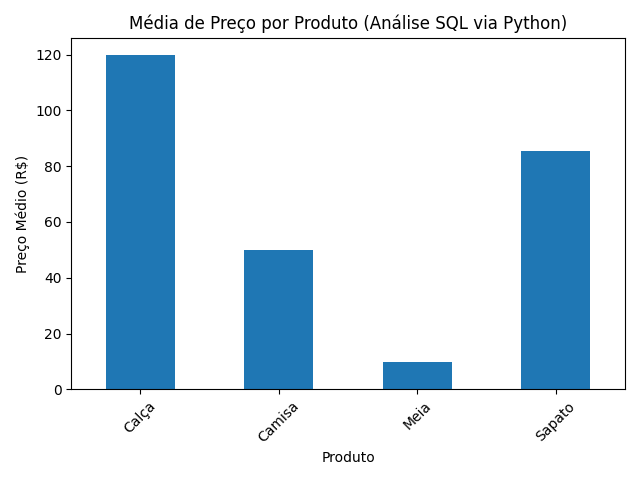
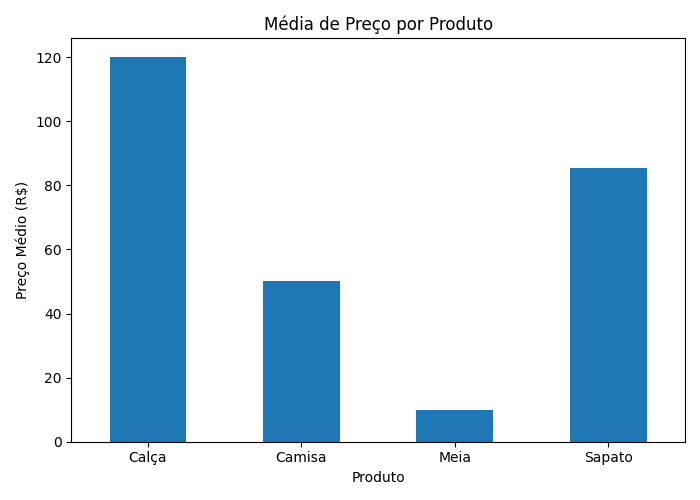
Refatorando analise_vendas.py: código limpo, agregação .agg() e dois gráficos Matplotlib salvos.

Changed region(s): [[0.0, 0.0312, 1.0, 0.9375], [0.8125, 0.3125, 0.9375, 0.3438], [0.5, 0.9375, 0.5938, 0.9688]]

diff --git a/analise_vendas.py b/analise_vendas.py
@@ -1,105 +1,69 @@
-# Este é um comentário. O Python o ignora.
+# Módulo de Análise de Dados: Python, Pandas e Matplotlib
 
-# 1. Importar a biblioteca Pandas (O padrão de mercado é chamar de 'pd')
+# 1. IMPORTAÇÕES
 import pandas as pd
 import matplotlib.pyplot as plt
 
-# 2. Criar uma série de dados simples (uma lista)
+# 2. DADOS DE ENTRADA
 dados = {
     'Produto': ['Camisa', 'Calça', 'Sapato', 'Meia'],
     'Preco': [50.00, 120.00, 85.50, 10.00]
 }
 
-# 3. Criar um DataFrame (a tabela de dados do Pandas)
+# 3. CRIAÇÃO DO DATAFRAME
 df_vendas = pd.DataFrame(dados)
 
-# 4. Imprimir apenas a coluna 'Preco'
-print("\nPreços dos Produtos:")
-print(df_vendas['Preco'])
+# ==========================================================
+# 4. ANÁLISE BÁSICA E FILTRAGEM
+# ==========================================================
 
-# 5. Imprimir mais de uma coluna (usando uma lista de colunas)
-print("\nProduto e Preço:")
-print(df_vendas[['Produto', 'Preco']])
+print("--- 1. ANÁLISE ESTATÍSTICA BÁSICA ---")
 
-# 6. Média de Preço (Primeira análise estatística!)
-print("\nMédia de Preços:")
-print(df_vendas['Preco'].mean())
-# 7. FILTROS CONDICIONAIS
-print("\nProdutos com Preço Superior a R$80.00:")
+# Seleção de Coluna Única e Média
+print(f"Média de Preços Total: R${df_vendas['Preco'].mean():.2f}")
 
-# Cria uma "Máscara" Booleana (True/False)
-# A variável 'preco_alto' será True para preços > 80.00 e False para o restante
+# Filtro Condicional (Preços > R$80.00)
 preco_alto = df_vendas['Preco'] > 80.00
-
-# Aplica a máscara ao DataFrame original para mostrar apenas as linhas True
 df_filtrado = df_vendas[preco_alto]
-
-# Imprime o novo DataFrame filtrado
+print("\nProdutos com Preço Superior a R$80.00:")
 print(df_filtrado)
-# 8. AGRUPAMENTO DE DADOS COM .groupby()
 
-# Objetivo: Calcular a média de Preço por Produto.
-print("\nPreço Médio por Produto (Agrupamento):")
 
-# 1. Agrupar o DataFrame pela coluna 'Produto'
-df_agrupado = df_vendas.groupby('Produto')
+# ==========================================================
+# 5. AGRUPAMENTO AVANÇADO (Relatório de BI)
+# ==========================================================
 
-# 2. Aplicar a função de média (.mean()) à coluna 'Preco' dentro de cada grupo
-media_por_produto = df_agrupado['Preco'].mean()
+print("\n--- 2. RELATÓRIO DE MÉTRICAS POR PRODUTO (.groupby().agg()) ---")
 
-# 3. Imprimir o resultado
-print(media_por_produto)
-# 9. VISUALIZAÇÃO DE DADOS (Matplotlib) - Salvando como arquivo
-
-print("\nGerando Gráfico de Barras dos Preços Médios...")
-
-# Cria um gráfico de barras a partir do DataFrame 'media_por_produto'
-media_por_produto.plot(kind='bar', title='Preço Médio por Produto')
-
-# Rotaciona os nomes dos produtos no eixo X para melhor visualização
-plt.xticks(rotation=0)
-
-# SALVA O GRÁFICO COMO IMAGEM (em vez de usar plt.show())
-plt.savefig('media_precos_por_produto.png')
-
-print("Gráfico salvo como 'media_precos_por_produto.png' no diretório.")
-# 9. AGRUPAMENTO AVANÇADO: Múltiplas Métricas por Grupo
-
-print("\nRelatório de Métricas Agregadas por Produto:")
-
-# Usamos .agg() para calcular múltiplas estatísticas de uma vez
+# Calculamos múltiplas estatísticas para o relatório
 relatorio_agregado = df_vendas.groupby('Produto')['Preco'].agg(['mean', 'max', 'min', 'count'])
-
-# Renomear as colunas para melhor leitura do relatório
 relatorio_agregado.columns = ['Preço Médio', 'Preço Máximo', 'Preço Mínimo', 'Total de Itens']
 
-# Imprimir o relatório completo
+# Imprimir o relatório
 print(relatorio_agregado)
-# 10. VISUALIZAÇÃO AVANÇADA: Gráfico de Barras com Dados Agrupados
 
-print("\nGerando Gráfico de Barras com Base no Agrupamento:")
 
-# Usamos o DataFrame agrupado que já calculamos anteriormente
-# Se você ainda não o tem no mesmo script, use a variável 'media_por_produto' do passo anterior
+# ==========================================================
+# 6. VISUALIZAÇÃO DE DADOS (Matplotlib)
+# ==========================================================
 
-# Para garantir, vamos recalcular rapidamente a variável de agrupamento para o gráfico:
-relatorio_agregado = df_vendas.groupby('Produto')['Preco'].mean() 
+print("\n--- 3. VISUALIZAÇÕES SALVAS NO DIRETÓRIO ---")
 
-# Configuração do Gráfico
-relatorio_agregado.plot(
-    kind='bar', 
-    title='Média de Preço por Produto (Análise SQL via Python)',
-    ylabel='Preço Médio (R$)'
-)
-
-# Ajustes estéticos
-plt.xticks(rotation=45) # Girar os nomes para caberem melhor
-plt.tight_layout() # Ajusta margens
-
-# Salva o gráfico
+# 6.1 GRÁFICO 1: Média Simples (Como a última análise feita)
+plt.figure(figsize=(7, 5)) # Define o tamanho do gráfico
+relatorio_agregado['Preço Médio'].plot(kind='bar', title='Média de Preço por Produto')
+plt.xticks(rotation=0)
+plt.ylabel('Preço Médio (R$)')
+plt.tight_layout()
 plt.savefig('media_precos_agrupada.png')
+print("Gráfico 'media_precos_agrupada.png' salvo com sucesso.")
 
-print("Gráfico de média por produto salvo como 'media_precos_agrupada.png'")
 
-# Se você ainda quiser ver a janela pop-up (opcionalmente)
-# plt.show()
+# 6.2 GRÁFICO 2: Contagem de Itens
+plt.figure(figsize=(7, 5)) 
+relatorio_agregado['Total de Itens'].plot(kind='bar', title='Total de Itens Vendidos (Contagem)')
+plt.xticks(rotation=0)
+plt.ylabel('Contagem')
+plt.tight_layout()
+plt.savefig('contagem_itens_vendidos.png')
+print("Gráfico 'contagem_itens_vendidos.png' salvo com sucesso.")
